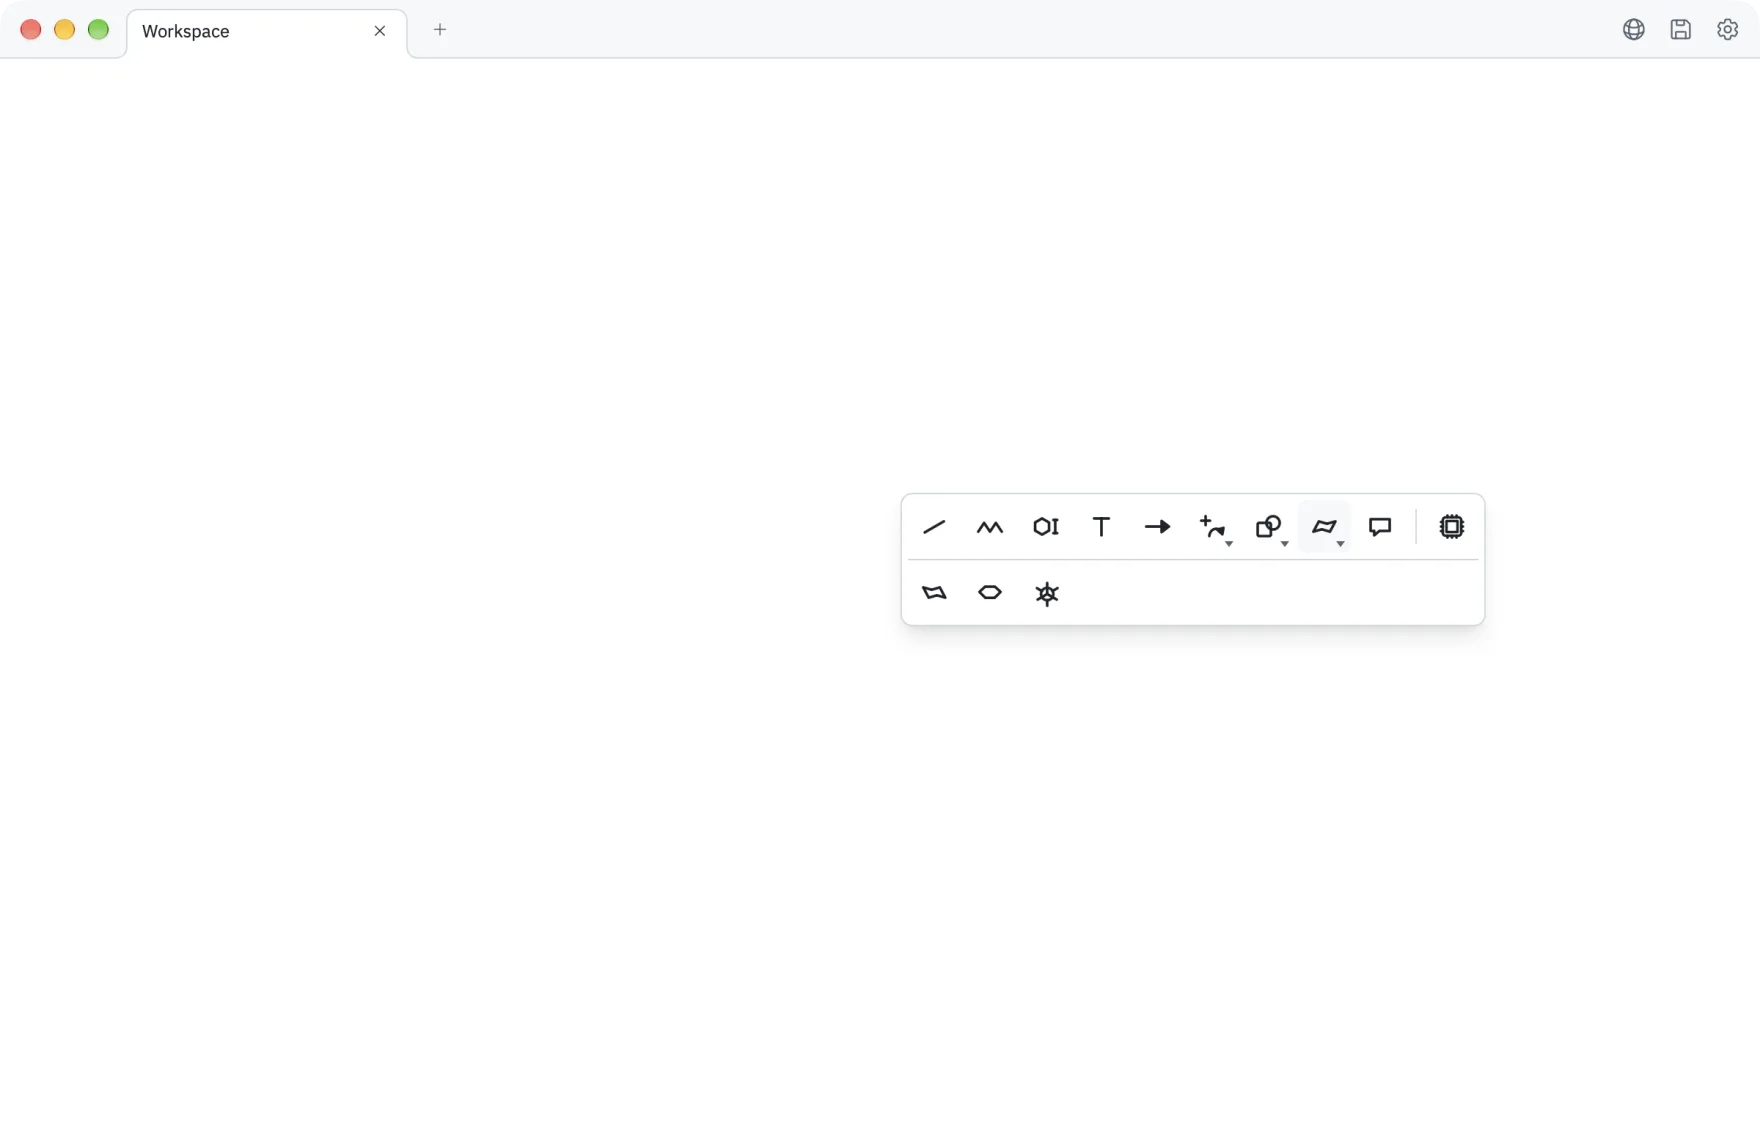
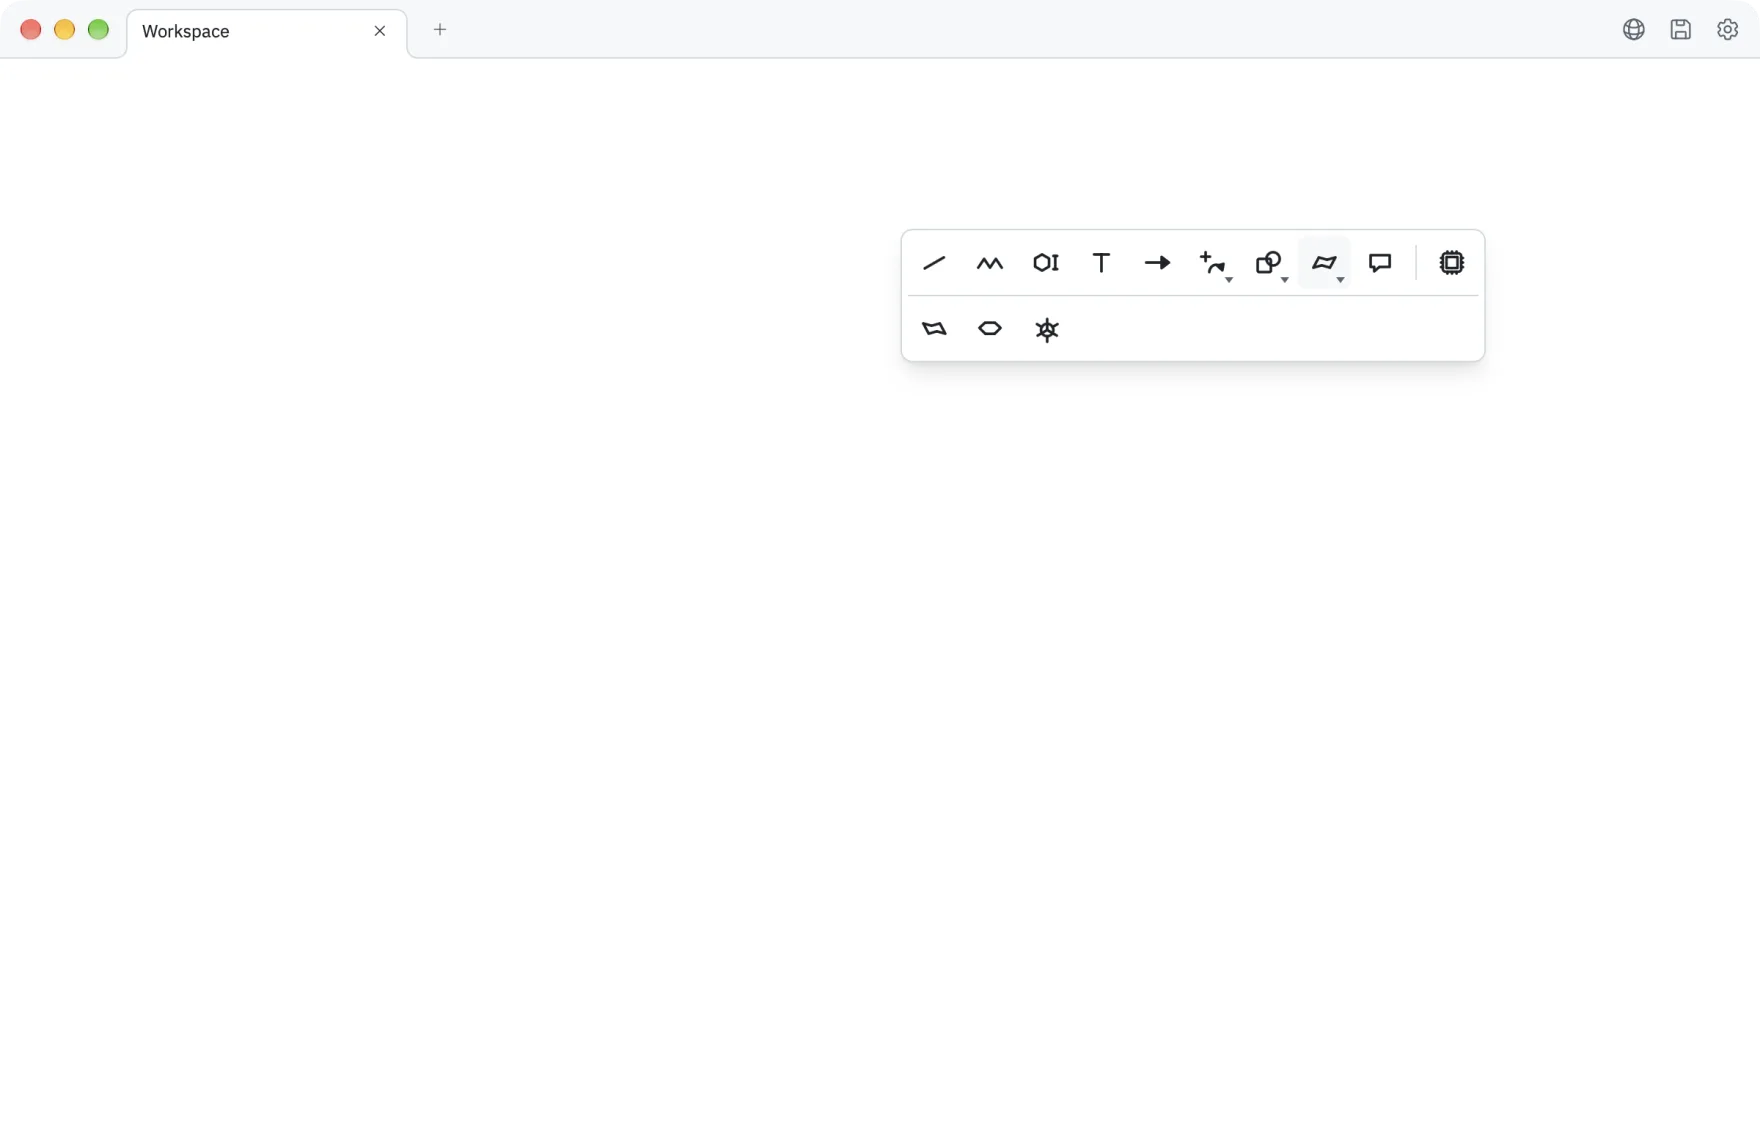
The chair's how-to pictures show the chair whole under every menu
- The chair is put down high in the window, so that an atom's right-click
  menu opens below it whole and the page stays where it is.
- Both recordings wait for the question about keeping Meno up to date that
  a fresh home asks a while after the start, and answer it "Not now"
  unrecorded, so that no picture catches it.
- The words say that undo brings back the chair as it was before Draw flat,
  that the cycle stays chosen while it is worked on, and where on the line
  the last arrow is asked for; the Japanese page calls what is written on
  the cycle by one word throughout.

diff --git a/site/manual/how-to/draw-catalytic-cycle/ja.md b/site/manual/how-to/draw-catalytic-cycle/ja.md
@@ -4,26 +4,26 @@
 
 1. {#open-quick-add} ページの何もないところをダブルクリックします。アイコンの列が開きます。
 2. {#scheme} プラスと曲がった矢印のアイコン「Scheme」を選びます。その下にもう一列開きます。
-3. {#cycle} 矢印でできた円のアイコン「Catalytic cycle」を選びます。ダブルクリックしたところに円が置かれます。
+3. {#cycle} 矢印でできた円のアイコン「Catalytic cycle」を選びます。ダブルクリックしたところに円が置かれます。作業しているあいだ、円は選ばれたまま青く表示されます。
 4. {#catalyst-open} 円の線のいちばん下をダブルクリックします。そこにアイコンの列が開きます。
 5. {#catalyst-text} T のアイコン「Text」を選びます。
-6. {#catalyst} `L2Pd(0)` と入力して Enter を押します。2 はひとりでに下付きになり、円の線は文字をよけて描かれます。
+6. {#catalyst} `L2Pd(0)` と入力して Enter を押します。2 はひとりでに下付きになり、円の線は式をよけて描かれます。
 7. {#second-open} 円の線の左上をダブルクリックします。
 8. {#second-text} 「Text」を選びます。
-9. {#second} `L2Pd(Ar)X` と入力して Enter を押します。最初の文字からこの文字へ、時計回りの矢印ができます。
+9. {#second} `L2Pd(Ar)X` と入力して Enter を押します。最初の式からこの式へ、時計回りの矢印ができます。
 10. {#third-open} 円の線の右上をダブルクリックします。
 11. {#third-text} 「Text」を選びます。
 12. {#third} `L2Pd(Ar)Ar'` と入力して Enter を押します。円は時計回りの三本の矢印になります。
-13. {#arrow-in-menu} 一つ目と二つ目の文字のあいだ、二つ目の文字の少し下にある左側の線を右クリックします。
+13. {#arrow-in-menu} 一つ目と二つ目の式のあいだ、二つ目の式の少し下にある左側の線を右クリックします。
 14. {#arrow-in} 「Arrow coming in」を選びます。外から曲がって入ってくる矢印が、そこで線に合流します。
-15. {#arrow-in-words} そのまま `Ar-X` と入力して Enter を押します。文字は矢印の外側の端に付きます。
-16. {#metal-in-menu} 二つ目と三つ目の文字のあいだ、いちばん上の線の真ん中より少し左を右クリックします。
+15. {#arrow-in-words} そのまま `Ar-X` と入力して Enter を押します。式は矢印の外側の端に付きます。
+16. {#metal-in-menu} 二つ目と三つ目の式のあいだ、いちばん上の線の真ん中より少し左を右クリックします。
 17. {#metal-in} 「Arrow coming in」を選びます。
 18. {#metal-in-words} そのまま `Ar'-M` と入力して Enter を押します。
 19. {#metal-out-menu} 同じ線の、真ん中より少し右を右クリックします。
 20. {#metal-out} 「Arrow going out」を選びます。この部分の線に、入ってくる矢印と出ていく矢印が一本ずつ付きます。
 21. {#metal-out-words} そのまま `M-X` と入力して Enter を押します。
-22. {#arrow-out-menu} 三つ目と一つ目の文字のあいだ、三つ目の文字の少し下にある右側の線を右クリックします。
+22. {#arrow-out-menu} 三つ目と一つ目の式のあいだ、三つ目の式よりかなり下、円のいちばん右の線を右クリックします。
 23. {#arrow-out} 「Arrow going out」を選びます。そこから線を離れて外へ曲がっていく矢印ができます。
 24. {#arrow-out-words} そのまま `Ar-Ar'` と入力して Enter を押します。
 25. {#let-go} ページの何もないところをクリックします。サイクルの選択が外れ、描かれたとおりの姿が見えます。入るものと出るものの矢印がそれぞれの段階に付き、すべて時計回りに進みます。

diff --git a/site/manual/how-to/draw-catalytic-cycle/en.md b/site/manual/how-to/draw-catalytic-cycle/en.md
@@ -4,7 +4,7 @@ Put a catalytic cycle on the page, write the catalyst and two intermediates on i
 
 1. {#open-quick-add} Double-click an empty spot on the page. A row of icons opens.
 2. {#scheme} Choose *Scheme*, the icon with a plus and a curved arrow. A second row opens below it.
-3. {#cycle} Choose *Catalytic cycle*, the circle of arrows. A circle is put down where you double-clicked.
+3. {#cycle} Choose *Catalytic cycle*, the circle of arrows. A circle is put down where you double-clicked. It stays chosen, shown in blue, while you work on it.
 4. {#catalyst-open} Double-click the bottom of the circle's line. The row of icons opens there.
 5. {#catalyst-text} Choose *Text*, the T.
 6. {#catalyst} Type `L2Pd(0)` and press Enter. The 2 is set lower by itself, and the circle opens round the words.
@@ -23,7 +23,7 @@ Put a catalytic cycle on the page, write the catalyst and two intermediates on i
 19. {#metal-out-menu} Right-click the same part of the line, a little right of the middle.
 20. {#metal-out} Choose *Arrow going out*. On this part of the line, one arrow now comes in and one goes out.
 21. {#metal-out-words} Type `M-X` at once, and press Enter.
-22. {#arrow-out-menu} Right-click the line at the right, a little below the third words, between them and the first.
+22. {#arrow-out-menu} Right-click the line at its right-most point, well below the third words, between them and the first.
 23. {#arrow-out} Choose *Arrow going out*. An arrow leaves the line there and curves out.
 24. {#arrow-out-words} Type `Ar-Ar'` at once, and press Enter.
 25. {#let-go} Click an empty spot on the page. The cycle is let go, and you see it as it is drawn: what comes in and what goes out at each stage, all running clockwise.

diff --git a/site/manual/how-to/draw-chair/ja.md b/site/manual/how-to/draw-chair/ja.md
@@ -12,5 +12,5 @@
 8. {#flip} 「Flip chair」を選びます。環が反転し、アキシアルだった置換基はエクアトリアルに、エクアトリアルだった置換基はアキシアルになります。それぞれの置換基が環の上側にあるか下側にあるかは変わらず、化合物も同じです。「R」もそのままです。
 9. {#flat-menu} もう一度、環の原子を右クリックします。
 10. {#flat} 「Draw flat」を選びます。環が平面に描き直され、置換基はくさびと破線のくさびで描かれ、「R」は原子の横に残ります。
-11. {#undo} ⌘Z（Windows では Ctrl+Z）を押します。いす形が元に戻ります。
+11. {#undo} ⌘Z（Windows では Ctrl+Z）を押します。いす形が「Draw flat」の前の、反転したあとの姿に戻ります。
 12. {#let-go} ページの何もないところをクリックします。いす形の選択が外れ、描かれたとおりの姿が見えます。

diff --git a/site/manual/how-to/draw-chair/en.md b/site/manual/how-to/draw-chair/en.md
@@ -12,5 +12,5 @@ Put a cyclohexane chair on the page, add one group equatorial and one axial on t
 8. {#flip} Choose *Flip chair*. The ring flips: each group that was axial is now equatorial, and each that was equatorial is now axial, each on its own face. The compound is the same, and the *R* is the same.
 9. {#flat-menu} Right-click an atom of the ring again.
 10. {#flat} Choose *Draw flat*. The ring is laid out flat, its groups drawn with wedges and hashed wedges, the *R* still beside its atom.
-11. {#undo} Press ⌘Z (Ctrl+Z on Windows). The chair comes back as it was.
+11. {#undo} Press ⌘Z (Ctrl+Z on Windows). The chair comes back as it was before *Draw flat*, flipped.
 12. {#let-go} Click an empty spot on the page. The chair is let go, and you see it as it is drawn.
